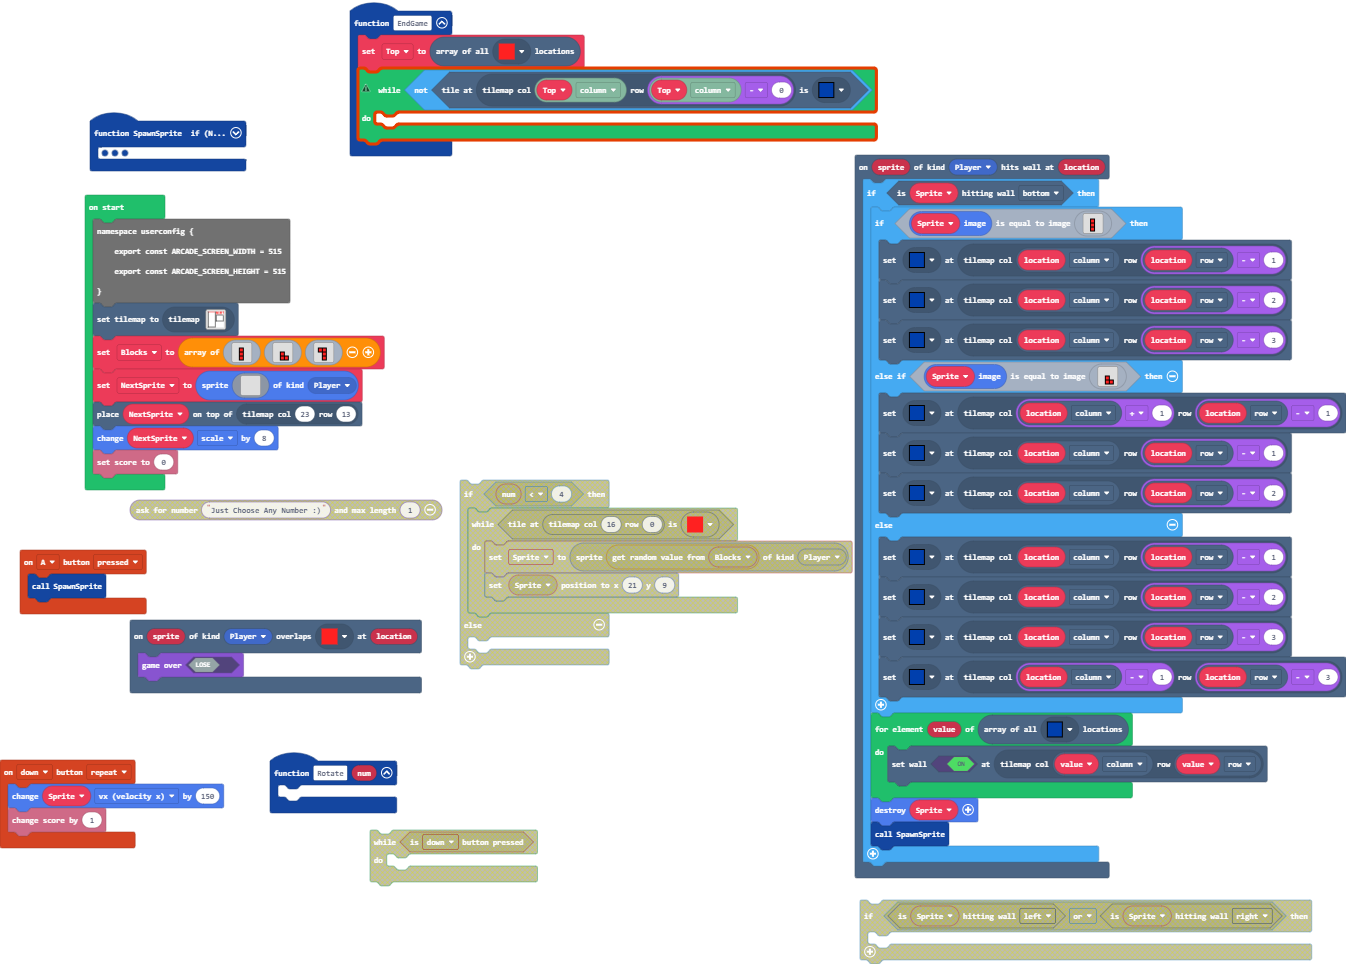
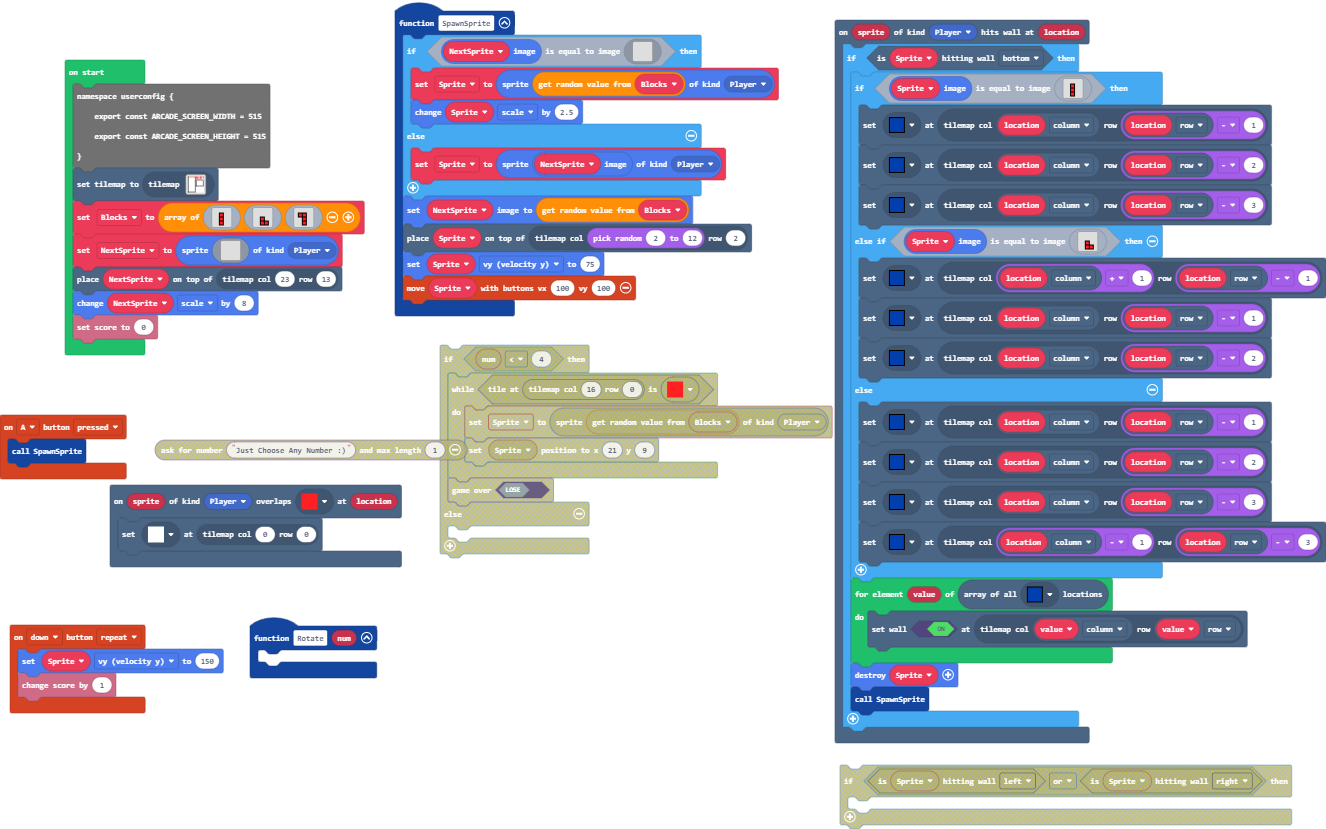
Restore '2/26/2024, 10:26:18 AM Update main.blocks, main.ts, tilemap.g.jres, tilemap.g.ts'

diff --git a/main.ts b/main.ts
@@ -56,7 +56,7 @@ scene.onHitWall(SpriteKind.Player, function (sprite, location) {
     }
 })
 scene.onOverlapTile(SpriteKind.Player, assets.tile`myTile`, function (sprite, location) {
-    game.gameOver(false)
+    tiles.setTileAt(tiles.getTileLocation(0, 0), assets.tile`myTile1`)
 })
 controller.A.onEvent(ControllerButtonEvent.Pressed, function () {
     SpawnSprite()
@@ -84,7 +84,6 @@ function SpawnSprite () {
         Sprite2.scale += 2.5
     } else {
         Sprite2 = sprites.create(NextSprite.image, SpriteKind.Player)
-        Sprite2.scale += 2.5
     }
     NextSprite.setImage(Blocks._pickRandom())
     tiles.placeOnTile(Sprite2, tiles.getTileLocation(randint(2, 12), 2))
@@ -92,19 +91,12 @@ function SpawnSprite () {
     controller.moveSprite(Sprite2, 100, 100)
 }
 controller.down.onEvent(ControllerButtonEvent.Repeated, function () {
-    Sprite2.vx += 150
+    Sprite2.vy = 150
     info.changeScoreBy(1)
 })
 function Rotate (num: number) {
 	
 }
-function EndGame () {
-    Top = tiles.getTilesByType(assets.tile`myTile`)
-    while (!(tiles.tileAtLocationEquals(tiles.getTileLocation(tiles.locationXY(Top, tiles.XY.column), tiles.locationXY(Top, tiles.XY.column) - 0), assets.tile`myTile3`))) {
-    	
-    }
-}
-let Top: tiles.Location[] = []
 let Sprite2: Sprite = null
 let NextSprite: Sprite = null
 let Blocks: Image[] = []
